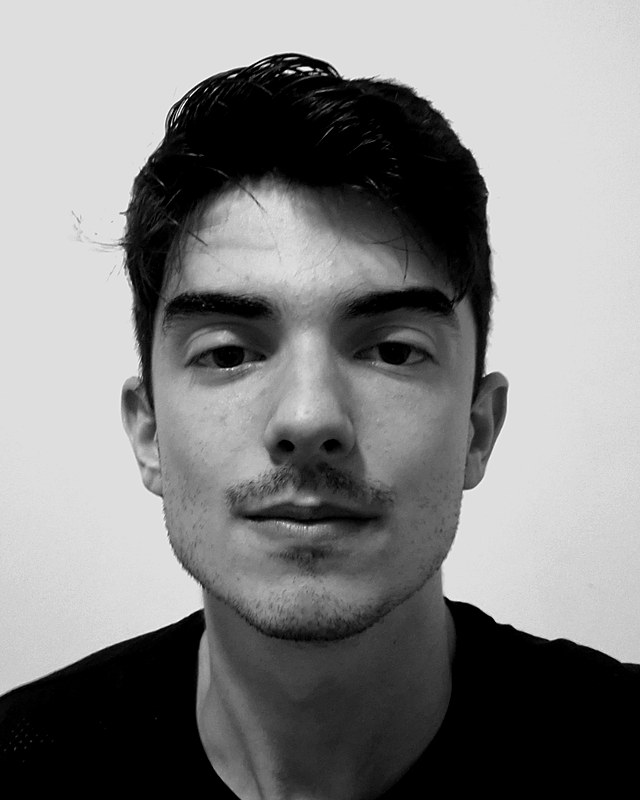
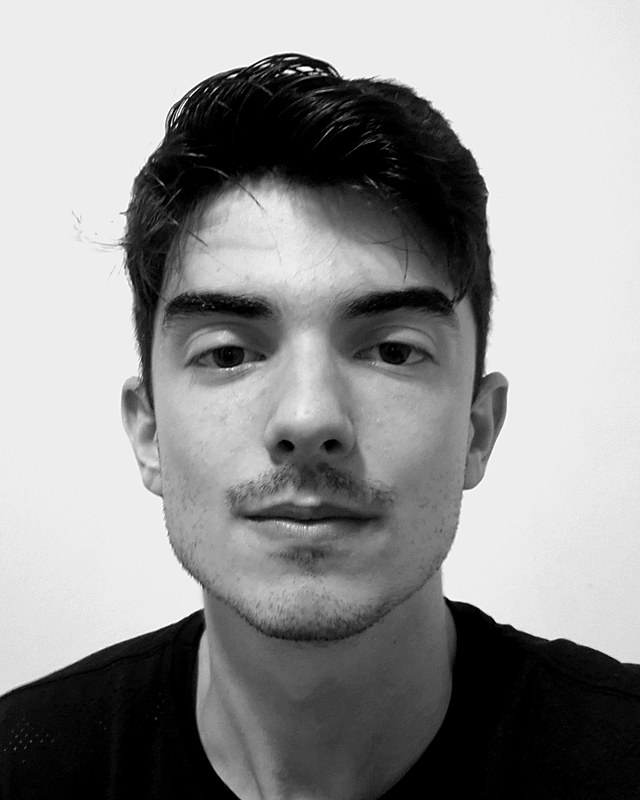
Galeria com Estrutura e Demolir e construir; foto do autor mais clara
Claude-Session: https://claude.ai/code/session_01QK6B2hHwSUhmAHQDkk5ZUr

diff --git a/index.html b/index.html
@@ -1215,6 +1215,7 @@
         <li class="desenho"><button type="button" class="quadro"><img src="galeria/planta-tecnica-mini.jpg" data-grande="galeria/planta-tecnica.jpg" alt="Planta baixa do térreo" width="845" height="1100" loading="lazy"><span class="titulo-quadro"><strong>Planta baixa do térreo</strong></span></button></li>
         <li class="desenho"><button type="button" class="quadro"><img src="galeria/layout-mini.jpg" data-grande="galeria/layout.jpg" alt="Layout do térreo" width="851" height="1100" loading="lazy"><span class="titulo-quadro"><strong>Layout do térreo</strong></span></button></li>
         <li class="desenho"><button type="button" class="quadro"><img src="galeria/cobertura-mini.jpg" data-grande="galeria/cobertura.jpg" alt="Planta de cobertura" width="837" height="1100" loading="lazy"><span class="titulo-quadro"><strong>Planta de cobertura</strong></span></button></li>
+        <li class="desenho"><button type="button" class="quadro"><img src="galeria/estrutura-mini.jpg" data-grande="galeria/estrutura.jpg" alt="Planta de estrutura" width="899" height="1100" loading="lazy"><span class="titulo-quadro"><strong>Planta de estrutura</strong></span></button></li>
         <li class="desenho"><button type="button" class="quadro"><img src="galeria/corte-aa-mini.jpg" data-grande="galeria/corte-aa.jpg" alt="Corte AA" width="1100" height="246" loading="lazy"><span class="titulo-quadro"><strong>Corte AA</strong></span></button></li>
         <li class="desenho"><button type="button" class="quadro"><img src="galeria/corte-bb-mini.jpg" data-grande="galeria/corte-bb.jpg" alt="Corte BB" width="1100" height="169" loading="lazy"><span class="titulo-quadro"><strong>Corte BB</strong></span></button></li>
         <li class="desenho"><button type="button" class="quadro"><img src="galeria/corte-cc-mini.jpg" data-grande="galeria/corte-cc.jpg" alt="Corte CC" width="1100" height="186" loading="lazy"><span class="titulo-quadro"><strong>Corte CC</strong></span></button></li>
@@ -1222,8 +1223,9 @@
         <li class="desenho"><button type="button" class="quadro"><img src="galeria/fachadas-leste-oeste-mini.jpg" data-grande="galeria/fachadas-leste-oeste.jpg" alt="Fachadas leste e oeste" width="1100" height="518" loading="lazy"><span class="titulo-quadro"><strong>Fachadas leste e oeste</strong></span></button></li>
         <li class="desenho"><button type="button" class="quadro"><img src="galeria/paisagismo-mini.jpg" data-grande="galeria/paisagismo.jpg" alt="Paisagismo: a praça do ipê" width="859" height="1100" loading="lazy"><span class="titulo-quadro"><strong>Paisagismo: a praça do ipê</strong></span></button></li>
         <li class="desenho"><button type="button" class="quadro"><img src="galeria/quadro-especies-mini.jpg" data-grande="galeria/quadro-especies.jpg" alt="Quadro de espécies da praça" width="1100" height="466" loading="lazy"><span class="titulo-quadro"><strong>Quadro de espécies da praça</strong></span></button></li>
+        <li class="desenho"><button type="button" class="quadro"><img src="galeria/demolir-construir-mini.jpg" data-grande="galeria/demolir-construir.jpg" alt="Demolir e construir: o prédio de 1960" width="407" height="1100" loading="lazy"><span class="titulo-quadro"><strong>Demolir e construir: o prédio de 1960</strong></span></button></li>
       </ul>
-      <button type="button" class="ver-galeria" hidden><svg viewBox="0 0 16 16" aria-hidden="true"><path d="M1.5 1.5h5v5h-5zM9.5 1.5h5v5h-5zM1.5 9.5h5v5h-5zM9.5 9.5h5v5h-5z" fill="none" stroke="currentColor" stroke-width="1.3"/></svg><span>Ver a galeria completa (<span class="n">19</span>)</span></button>
+      <button type="button" class="ver-galeria" hidden><svg viewBox="0 0 16 16" aria-hidden="true"><path d="M1.5 1.5h5v5h-5zM9.5 1.5h5v5h-5zM1.5 9.5h5v5h-5zM9.5 9.5h5v5h-5z" fill="none" stroke="currentColor" stroke-width="1.3"/></svg><span>Ver a galeria completa (<span class="n">21</span>)</span></button>
     </div>
   </div>
 </section>
